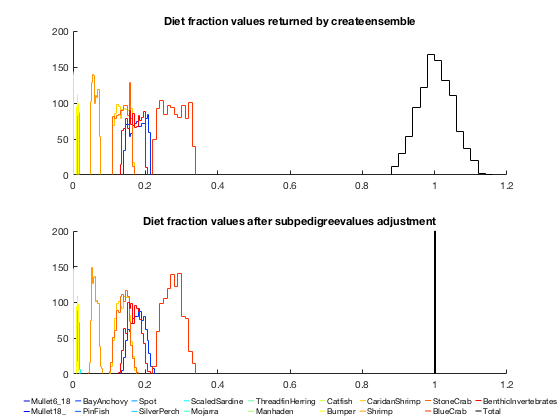
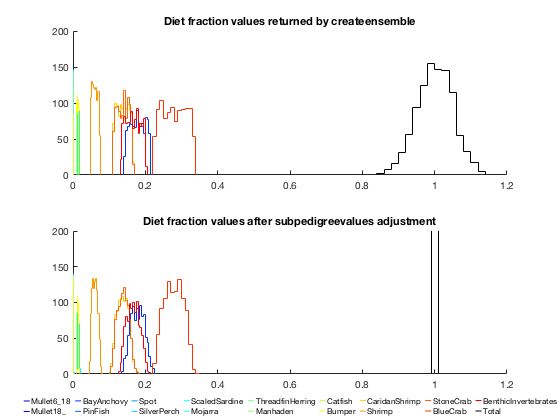
Republished updated overview document

diff --git a/html/ecopathmodel_overview.html b/html/ecopathmodel_overview.html
@@ -6,7 +6,7 @@
    <!--
 This HTML was auto-generated from MATLAB code.
 To make changes, update the MATLAB code and republish this document.
-      --><title>An overview of the ecopathmodel class</title><meta name="generator" content="MATLAB 9.0"><link rel="schema.DC" href="http://purl.org/dc/elements/1.1/"><meta name="DC.date" content="2016-08-19"><meta name="DC.source" content="ecopathmodel_overview.m"><style type="text/css">
+      --><title>An overview of the ecopathmodel class</title><meta name="generator" content="MATLAB 9.0"><link rel="schema.DC" href="http://purl.org/dc/elements/1.1/"><meta name="DC.date" content="2016-12-02"><meta name="DC.source" content="ecopathmodel_overview.m"><style type="text/css">
 html,body,div,span,applet,object,iframe,h1,h2,h3,h4,h5,h6,p,blockquote,pre,a,abbr,acronym,address,big,cite,code,del,dfn,em,font,img,ins,kbd,q,s,samp,small,strike,strong,sub,sup,tt,var,b,u,i,center,dl,dt,dd,ol,ul,li,fieldset,form,label,legend,table,caption,tbody,tfoot,thead,tr,th,td{margin:0;padding:0;border:0;outline:0;font-size:100%;vertical-align:baseline;background:transparent}body{line-height:1}ol,ul{list-style:none}blockquote,q{quotes:none}blockquote:before,blockquote:after,q:before,q:after{content:'';content:none}:focus{outine:0}ins{text-decoration:none}del{text-decoration:line-through}table{border-collapse:collapse;border-spacing:0}
 
 html { min-height:100%; margin-bottom:1px; }
@@ -69,7 +69,8 @@ table td { padding:7px 5px; text-align:left; vertical-align:top; border:1px soli
   </style></head><body><div class="content"><h1>An overview of the ecopathmodel class</h1><!--introduction--><p>The ecopathmodel class offers a Matlab-based implementation of the popular Ecopath mass-balance algorithm.  For information on the Ecopath concept, I refer you to the official Ecopath with Ecosim website: <a href="http://ecopath.org">http://ecopath.org</a>, as well as to the following journal articles:</p><div><ul><li>Christensen, V. &amp; Pauly, D. ECOPATH II--a software for balancing steady-state ecosystem models and calculating network characteristics. Ecological Modelling 61, 169-185 (1992).</li><li>Christensen, V. &amp; Walters, C. J. Ecopath with Ecosim: methods, capabilities and limitations. Ecological Modelling 172, 109-139 (2004).</li></ul></div><p>This overview assumes that you are already familiar with the Ecopath concept, and simply focuses on the use of this particular implementation.  Please note that this code is intended to replicate only the Ecopath algorithm, not Ecosim, Ecospace, or any of the other Ecopath-derived functionalities within the full EwE software.  Full documentation of the class and its associated methods can be accessed via the standard Matlab help format, e.g.:</p><pre class="language-matlab">help <span class="string">ecopathmodel</span>
 doc <span class="string">ecopathmodel</span>
 help <span class="string">ecopathmodel/ecopath</span>
-</pre><!--/introduction--><h2>Contents</h2><div><ul><li><a href="#1">The <tt>ecopathmodel</tt> class</a></li><li><a href="#2">Importing Ecopath with Ecosim data</a></li><li><a href="#4">Importing Rpath data</a></li><li><a href="#7">Building an <tt>ecopathmodel</tt> object manually</a></li><li><a href="#17">Filling in multi-stanza group parameters</a></li><li><a href="#23">Calculating Ecopath mass balance</a></li><li><a href="#27">Generating an ensemble of Ecopath models</a></li><li><a href="#34">Calculating network indices</a></li><li><a href="#36">Consolidating groups in a model</a></li><li><a href="#37">Converting to graph objects</a></li><li><a href="#38"><tt>ecopathmodel</tt> vs <tt>ecopathlite.m</tt></a></li></ul></div><h2>The <tt>ecopathmodel</tt> class<a name="1"></a></h2><p>The foundation of this package is the ecopathmodel class.  The properties of an <tt>ecopathmodel</tt> object store the input data related to a particular modeled ecosystem; this is the data that would be entered under the "Input data" panel in Ecopath with Ecosim 6.4 (EwE6), and includes the  definition of functional groups and fishing fleets and the connections between them, as well as the many parameters associated with each state variable and group-to-group flow process.</p><p>Currently, there are three ways to create one of these objects:</p><div><ol><li>Load data from an EwE6 database file</li><li>Load data from a set of Rpath-formatted .csv files</li><li>Build the model manually</li></ol></div><p>If you have a prexisting model, the first two methods are preferable to manual transcription, since in my experience it is very easy to accidentally mis-transcribe a value, or transcribe it using less precision than in the original model.  Building a model manually has the advantage of providing a clear "paper trail" for all your model parameters, but you have to be careful that you fill in all the necessary values.  While I provide a few basic checks of input, I'm not quite as good as EwE6 is at required vs. optional given the architecture of your specific ecosystem.</p><p>Personally, I prefer a combination of the two techniques, where possible. Use the EwE6 software during the initial data-gathering step of building an Ecopath model.  That will allow you to take advantage of all the graphical utilities that warn you when parameters are blatantly incorrect.  Once the model data is acceptable (not necessarily mass-balanced yet, but able to be checked for balance without popping up any warning messages), move over to this tool for project-specific parameter adjustments.  This process allows you to preserve one copy of the base model while also keeping project-specific details clearly documented, and allowing you to comment on why parameters were changed from their original values (i.e. for balance, new data, reinterpretation of data, etc.).</p><h2>Importing Ecopath with Ecosim data<a name="2"></a></h2><p>The current version of Ecopath with Ecosim stores data in specially-formatted Microsoft Access database files, with the .EwEmdb extension.  The <tt>mdb2ecopathmodel</tt> function will read data from one of these files into an <tt>ecopathmodel</tt> object, with two caveats:</p><div><ol><li>You need to first install the <tt>mdbtools</tt> set of command-line utilities. They're available for download here: <a href="https://github.com/brianb/mdbtools">https://github.com/brianb/mdbtools</a>. Install instructions for *nix systems are included on GitHub; for Mac, I recommend installing via either MacPorts or Homebrew.  Windows users (and I know that's most of the Ecopath-using community): I've never compiled this tool on a Windows machine, though I know it can be done.  I don't work with any Windows machines myself, so this is a big shortcoming in this code base at the moment. If any of you have compiled mdbtools on a Windows system, or have a better way of reading .mdb files into Matlab on a Windows machine (using the Database Toolbox, maybe?), please contact me!  I'd love to make this utility easier to use on Windows.</li><li>I expect all files to use the EwE6 format.  If you have older files (EwE5 .mdb files), you'll first need to import them into EwE6 and let its conversion tool convert to the newer format.  (There were some minor changes made to the file format between EwE6.4 and EwE6.5... the changed table properties are untouched by this routine, so either format is fine).</li></ol></div><p>This example reads in one of the example ecosystems that ships with the EwE6 software (and that I've included in this package under the examples folder):</p><pre class="codeinput">Gen37 = mdb2ecopathmodel(fullfile(<span class="string">'examples'</span>, <span class="string">'Generic_37.EwEmdb'</span>));
+</pre><!--/introduction--><h2>Contents</h2><div><ul><li><a href="#1">The <tt>ecopathmodel</tt> class</a></li><li><a href="#2">Importing Ecopath with Ecosim data</a></li><li><a href="#4">Importing Rpath data</a></li><li><a href="#7">Building an <tt>ecopathmodel</tt> object manually</a></li><li><a href="#17">Filling in multi-stanza group parameters</a></li><li><a href="#23">Calculating Ecopath mass balance</a></li><li><a href="#27">Generating an ensemble of Ecopath models</a></li><li><a href="#34">Calculating network indices</a></li><li><a href="#36">Consolidating groups in a model</a></li><li><a href="#37">Converting to graph objects</a></li><li><a href="#38"><tt>ecopathmodel</tt> vs <tt>ecopathlite.m</tt></a></li></ul></div><h2>The <tt>ecopathmodel</tt> class<a name="1"></a></h2><p>The foundation of this package is the ecopathmodel class.  The properties of an <tt>ecopathmodel</tt> object store the input data related to a particular modeled ecosystem; this is the data that would be entered under the "Input data" panel in Ecopath with Ecosim 6.4 (EwE6), and includes the  definition of functional groups and fishing fleets and the connections between them, as well as the many parameters associated with each state variable and group-to-group flow process.</p><p>Currently, there two primary methods to create one of these objects:</p><div><ol><li>Load data from one of the other flavors of Ecopath (from an EwE6 database file, Rpath set of .csv files, or EwE-F set of text files)</li><li>Build the model manually</li></ol></div><p>If you have a prexisting model, the first method is preferable to manual transcription, since in my experience it is very easy to accidentally mis-transcribe a value, or transcribe it using less precision than in the original software. Building a model manually, on the other hand, has the advantage of providing a clear "paper trail" for all your model parameters, but you have to be careful that you fill in all the necessary values.  While I provide a few basic checks of input, I'm not quite as good as EwE6 is at required vs. optional given the architecture of your specific ecosystem.</p><p>Personally, I prefer a combination of the two techniques, where possible. Use the EwE6 software during the initial data-gathering step of building an Ecopath model.  That will allow you to take advantage of all the graphical utilities that warn you when parameters are blatantly incorrect.  Once the model data is acceptable (not necessarily mass-balanced yet, but able to be checked for balance without popping up any warning messages), move over to this tool for project-specific parameter adjustments.  This process allows you to preserve one copy of the base model while also keeping project-specific details clearly documented, and allowing you to comment on why parameters were changed from their original values (i.e. for balance, new data, reinterpretation of data, etc.).</p><h2>Importing Ecopath with Ecosim data<a name="2"></a></h2><p>The current version of Ecopath with Ecosim stores data in specially-formatted Microsoft Access database files, with the .EwEmdb extension.</p><p>Freeing model data from these database files is not exactly a straightforward proposition.  The file format is proprietary and outdated, and typical use requires the proper (Windows-only) database drivers for access.  Because of this, most Ecopath-related tools I'm aware of (like Rpath or EwE-F) request users to copy and paste data from EwE into various spreadsheets for import. I dislike this solution because it's vulnerable to human error and the process needs to be repeated any time you update the model in the EwE GUI.  Also, there are a lot of smaller tables (pedigree lookup tables, stanza age-curve related stuff) that users tend to set and then forget about.</p><p>I say all this as a bit of an apology for the fact that in order to read these files into Matlab directly, you're going to need to install some third-party tools.  If you're using Linux or Mac OS, you need the mdbtools set of command-line utilities.  On Windows, you need python, the pyodbc module, and a Microsoft Access ODBC driver. For further details of this installation, type</p><pre class="language-matlab">help <span class="string">mdb2ecopathmodel</span>
+</pre><p>at the Matlab command prompt.  Once you've gotten the appropriate software set up, you can run the following example.</p><p>This example reads in one of the example ecosystems that ships with the EwE6 software (and that I've included in this package under the examples folder):</p><pre class="codeinput">Gen37 = mdb2ecopathmodel(fullfile(<span class="string">'examples'</span>, <span class="string">'Generic_37.EwEmdb'</span>));
 </pre><pre class="codeoutput">Warning: Some names changed to meet Matlab's variable name restrictions:
   Baleen whales -&gt; BaleenWhales
   Toothed whales -&gt; ToothedWhales
@@ -1102,7 +1103,7 @@ ans =
 
 </pre><p>Notice that pedigree values corresponding to variables that are 0 (such as the rows corresponding to critters that aren't part of the catfish diet) are automatically removed from the pedigree table.</p><p>With a pedigree in place, we can build an ensemble.  You can choose to return either all generated values, or only those sets that result in balanced models.</p><pre class="codeinput">x = Tb.createensemble(1000, <span class="string">'pdfname'</span>, <span class="string">'uniform'</span>, <span class="string">'collect'</span>, <span class="string">'balanced'</span>);
 </pre><pre class="codeoutput">Generating ensembles...
- 100% [=================================================&gt;] Attempted: 2110
+ 100% [=================================================&gt;] Attempted: 2106
 </pre><p>One thing to note is that the <tt>creatensemble</tt> method does not adjust parameters to meet Ecopath requirements.  That process is done by the <tt>subpedigreevalues</tt> method (which is usually called under the hood by the <tt>ecopath</tt> method).  For example, if we look at the diet composition values for the catfish (the first 17 entries in the pedigree table):</p><pre class="codeinput"><span class="comment">% Setup for histograms</span>
 
 hopts = {<span class="string">'normalization'</span>, <span class="string">'count'</span>, <span class="string">'displaystyle'</span>, <span class="string">'stairs'</span>};
@@ -1110,26 +1111,52 @@ cmap = jet(17);
 
 <span class="comment">% Plot histograms of createensemble output</span>
 
+calclims = @(x) [min(x(:)) max(x(:))];
+calcedges = @(x) linspace(x(1)-diff(x)*0.01, x(2)+diff(x)*0.01, 10);
+histoutline = @(edg,n,col) stairs([edg(1) reshape(edg,1,[]) edg(end)], [0 reshape(n,1,[]) 0], <span class="string">'color'</span>, col);
+
 figure;
 ax(1) = subplot(2,1,1);
 hold <span class="string">on</span>;
-hh = gobjects(17,1);
-<span class="keyword">for</span> ii = 1:17
-    hh(ii) = histogram(x(:,ii), hopts{:}, <span class="string">'edgecolor'</span>, cmap(ii,:));
+<span class="keyword">if</span> verLessThan(<span class="string">'matlab'</span>, <span class="string">'R2014b'</span>)
+    <span class="keyword">for</span> ii = 1:17
+        edg = calcedges(calclims(x(:,ii)));
+        ntmp = histc(x(:,ii), edg);
+        histoutline(edg, ntmp, cmap(ii,:));
+    <span class="keyword">end</span>
+    edg = calcedges(calclims(sum(x(:,1:17),2)));
+    ntmp = histc(sum(x(:,1:17),2), edg);
+    histoutline(edg, ntmp, <span class="string">'k'</span>);
+<span class="keyword">else</span>
+    <span class="keyword">for</span> ii = 1:17
+        histogram(x(:,ii), hopts{:}, <span class="string">'edgecolor'</span>, cmap(ii,:));
+    <span class="keyword">end</span>
+    histogram(sum(x(:,1:17),2), hopts{:}, <span class="string">'edgecolor'</span>, <span class="string">'k'</span>);
 <span class="keyword">end</span>
-htot = histogram(sum(x(:,1:17),2), hopts{:}, <span class="string">'edgecolor'</span>, <span class="string">'k'</span>);
 
 <span class="comment">% Run output through subpedigreevalues and plot histograms</span>
 
 B = Tb.subpedigreevalues(x');
 dc = reshape(B.dc, [], size(x,1));
 idx = sub2ind([Tb.ngroup Tb.ngroup], Tb.pedigree.row(1:17), Tb.pedigree.column(1:17));
+
 ax(2) = subplot(2,1,2);
 hold <span class="string">on</span>;
-<span class="keyword">for</span> ii = 1:17
-    histogram(dc(idx(ii),:), hopts{:}, <span class="string">'edgecolor'</span>, cmap(ii,:));
+<span class="keyword">if</span> verLessThan(<span class="string">'matlab'</span>, <span class="string">'R2014b'</span>)
+    <span class="keyword">for</span> ii = 1:17
+        edg = calcedges(calclims(dc(idx(ii),:)));
+        ntmp = histc(dc(idx(ii),:), edg);
+        histoutline(edg, ntmp, cmap(ii,:));
+    <span class="keyword">end</span>
+    edg = linspace(0.9,1.1,10);
+    ntmp = histc(sum(dc(idx,:),1), edg);
+    histoutline(edg, ntmp, <span class="string">'k'</span>);
+<span class="keyword">else</span>
+    <span class="keyword">for</span> ii = 1:17
+        histogram(dc(idx(ii),:), hopts{:}, <span class="string">'edgecolor'</span>, cmap(ii,:));
+    <span class="keyword">end</span>
+    histogram(sum(dc(idx,:),1), hopts{:}, <span class="string">'edgecolor'</span>, <span class="string">'k'</span>, <span class="string">'BinLimits'</span>, [0.99 1.01]);
 <span class="keyword">end</span>
-histogram(sum(dc(idx,:),1), hopts{:}, <span class="string">'edgecolor'</span>, <span class="string">'k'</span>, <span class="string">'binlimits'</span>, [0.999 1.001]);
 
 <span class="comment">% Legend</span>
 
@@ -1331,21 +1358,22 @@ axis <span class="string">off</span>;
 % connections between them, as well as the many parameters associated with
 % each state variable and group-to-group flow process.  
 %
-% Currently, there are three ways to create one of these objects:
+% Currently, there two primary methods to create one of these objects:
 %
-% # Load data from an EwE6 database file
-% # Load data from a set of Rpath-formatted .csv files
+% # Load data from one of the other flavors of Ecopath (from an EwE6
+% database file, Rpath set of .csv files, or EwE-F set of text
+% files)
 % # Build the model manually
 %
-% If you have a prexisting model, the first two methods are preferable to
+% If you have a prexisting model, the first method is preferable to
 % manual transcription, since in my experience it is very easy to
 % accidentally mis-transcribe a value, or transcribe it using less
-% precision than in the original model.  Building a model manually has the
-% advantage of providing a clear "paper trail" for all your model
-% parameters, but you have to be careful that you fill in all the necessary
-% values.  While I provide a few basic checks of input, I'm not quite as
-% good as EwE6 is at required vs. optional given the architecture of your
-% specific ecosystem.
+% precision than in the original software. Building a model manually, on
+% the other hand, has the advantage of providing a clear "paper trail" for
+% all your model parameters, but you have to be careful that you fill in
+% all the necessary values.  While I provide a few basic checks of input,
+% I'm not quite as good as EwE6 is at required vs. optional given the
+% architecture of your specific ecosystem. 
 %
 % Personally, I prefer a combination of the two techniques, where possible.
 % Use the EwE6 software during the initial data-gathering step of building
@@ -1364,26 +1392,30 @@ axis <span class="string">off</span>;
 %
 % The current version of Ecopath with Ecosim stores data in
 % specially-formatted Microsoft Access database files, with the .EwEmdb
-% extension.  The |mdb2ecopathmodel| function will read data from one of
-% these files into an |ecopathmodel| object, with two caveats:
+% extension.
 %
-% # You need to first install the |mdbtools| set of command-line utilities.
-% They're available for download here: <https://github.com/brianb/mdbtools>.
-% Install instructions for *nix systems are included on GitHub; for Mac, I
-% recommend installing via either MacPorts or Homebrew.  Windows users (and
-% I know that's most of the Ecopath-using community): I've never compiled
-% this tool on a Windows machine, though I know it can be done.  I don't
-% work with any Windows machines myself, so this is a big shortcoming in
-% this code base at the moment. If any of you have compiled mdbtools on a
-% Windows system, or have a better way of reading .mdb files into Matlab on
-% a Windows machine (using the Database Toolbox, maybe?), please contact
-% me!  I'd love to make this utility easier to use on Windows.
-% # I expect all files to use the EwE6 format.  If you have older files
-% (EwE5 .mdb files), you'll first need to import them into EwE6 and let its
-% conversion tool convert to the newer format.  (There were some minor
-% changes made to the file format between EwE6.4 and EwE6.5... the changed
-% table properties are untouched by this routine, so either format is
-% fine). 
+% Freeing model data from these database files is not exactly a
+% straightforward proposition.  The file format is proprietary and
+% outdated, and typical use requires the proper (Windows-only) database
+% drivers for access.  Because of this, most Ecopath-related tools I'm aware of (like Rpath
+% or EwE-F) request users to copy and paste data from EwE into various
+% spreadsheets for import. I dislike this solution because it's vulnerable
+% to human error and the process needs to be repeated any time you update
+% the model in the EwE GUI.  Also, there are a lot of smaller tables
+% (pedigree lookup tables, stanza age-curve related stuff) that users tend
+% to set and then forget about.    
+%
+% I say all this as a bit of an apology for the fact that in order to read
+% these files into Matlab directly, you're going to need to install
+% some third-party tools.  If you're using Linux or Mac OS, you need the
+% mdbtools set of command-line utilities.  On Windows, you need python, the
+% pyodbc module, and a Microsoft Access ODBC driver. For further details of
+% this installation, type 
+% 
+%   help mdb2ecopathmodel
+%
+% at the Matlab command prompt.  Once you've gotten the appropriate
+% software set up, you can run the following example.
 %
 % This example reads in one of the example ecosystems that ships with the
 % EwE6 software (and that I've included in this package under the examples
@@ -2034,26 +2066,52 @@ cmap = jet(17);
 
 % Plot histograms of createensemble output
 
+calclims = @(x) [min(x(:)) max(x(:))];
+calcedges = @(x) linspace(x(1)-diff(x)*0.01, x(2)+diff(x)*0.01, 10);
+histoutline = @(edg,n,col) stairs([edg(1) reshape(edg,1,[]) edg(end)], [0 reshape(n,1,[]) 0], 'color', col);
+
 figure;
 ax(1) = subplot(2,1,1);
 hold on;
-hh = gobjects(17,1);
-for ii = 1:17
-    hh(ii) = histogram(x(:,ii), hopts{:}, 'edgecolor', cmap(ii,:));
+if verLessThan('matlab', 'R2014b')
+    for ii = 1:17
+        edg = calcedges(calclims(x(:,ii)));
+        ntmp = histc(x(:,ii), edg);
+        histoutline(edg, ntmp, cmap(ii,:));
+    end
+    edg = calcedges(calclims(sum(x(:,1:17),2)));
+    ntmp = histc(sum(x(:,1:17),2), edg);
+    histoutline(edg, ntmp, 'k');
+else
+    for ii = 1:17
+        histogram(x(:,ii), hopts{:}, 'edgecolor', cmap(ii,:));
+    end
+    histogram(sum(x(:,1:17),2), hopts{:}, 'edgecolor', 'k');
 end
-htot = histogram(sum(x(:,1:17),2), hopts{:}, 'edgecolor', 'k');
 
 % Run output through subpedigreevalues and plot histograms
 
 B = Tb.subpedigreevalues(x');
 dc = reshape(B.dc, [], size(x,1));
 idx = sub2ind([Tb.ngroup Tb.ngroup], Tb.pedigree.row(1:17), Tb.pedigree.column(1:17));
+
 ax(2) = subplot(2,1,2);
 hold on;
-for ii = 1:17
-    histogram(dc(idx(ii),:), hopts{:}, 'edgecolor', cmap(ii,:));
+if verLessThan('matlab', 'R2014b')
+    for ii = 1:17
+        edg = calcedges(calclims(dc(idx(ii),:)));
+        ntmp = histc(dc(idx(ii),:), edg);
+        histoutline(edg, ntmp, cmap(ii,:));
+    end
+    edg = linspace(0.9,1.1,10);
+    ntmp = histc(sum(dc(idx,:),1), edg);
+    histoutline(edg, ntmp, 'k');
+else
+    for ii = 1:17
+        histogram(dc(idx(ii),:), hopts{:}, 'edgecolor', cmap(ii,:));
+    end
+    histogram(sum(dc(idx,:),1), hopts{:}, 'edgecolor', 'k', 'BinLimits', [0.99 1.01]);
 end
-histogram(sum(dc(idx,:),1), hopts{:}, 'edgecolor', 'k', 'binlimits', [0.999 1.001]);
 
 % Legend
 
@@ -2169,7 +2227,6 @@ StatsEns = Tb.networkindices('ensemble', x')
 % For example, we can use this method to combine some of the multistanza
 % groups in the Tampa Bay model into single functional groups. 
 
-
 grps = {...
     {...
     'Snook0_12'
@@ -2195,7 +2252,6 @@ grps = {...
 
 New = Tb.combinegroups(grps{:}, 'labels', ...
     {'SnookJuv', 'SnookAdult', 'RedDrum', 'SeaTrout', 'SandTrout'});
-
 
 
 

diff --git a/ecopathmodel_overview.m b/ecopathmodel_overview.m
@@ -902,7 +902,6 @@ StatsEns = Tb.networkindices('ensemble', x')
 % For example, we can use this method to combine some of the multistanza
 % groups in the Tampa Bay model into single functional groups. 
 
-
 grps = {...
     {...
     'Snook0_12'
@@ -928,7 +927,6 @@ grps = {...
 
 New = Tb.combinegroups(grps{:}, 'labels', ...
     {'SnookJuv', 'SnookAdult', 'RedDrum', 'SeaTrout', 'SandTrout'});
-
 
 
 
